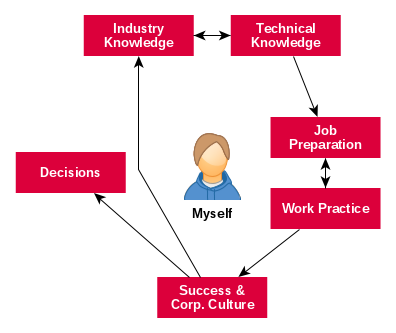
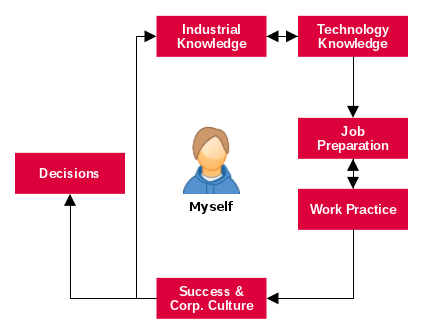
Revision of graphs, text, css and hyperlinks

diff --git a/css/style.css b/css/style.css
@@ -34,7 +34,7 @@ RESPONSIVE
 body {
   font-family: 'Assistant', sans-serif;
   font-size: 16px;
-  color: #505050;
+  color: #404040;
   font-weight: 600;
   overflow-x: hidden;
 }
@@ -69,7 +69,7 @@ p {
 }
 
 a {
-  color: #11151c;
+  color: #404040;
   -webkit-transition: 0.2s color;
   transition: 0.2s color;
 }
@@ -92,7 +92,6 @@ a:hover, a:focus {
 
 ul, ol {
   margin: 0px;
-  margin-bottom: -10px;
   padding: 0;
   list-style: none
 }
@@ -111,29 +110,34 @@ ol.list-style {
 }
 
 blockquote.blockquote {
-  padding: 30px;
-  margin: 0px 0px 20px;
-  border: 2px solid #e8eaed;
+  padding: 20px;
+  margin: 15px 75px 15px 75px;
+  border: 2px solid #dee0e3;
+  background: #edeff2;
+  font-size: 15px;
+  font-style: italic;
 }
 
 blockquote.blockquote:before {
   content: "\f10d";
   font-family: fontAwesome;
-  width: 70px;
-  height: 70px;
-  line-height: 70px;
+  font-style: normal;
+  width: 45px;
+  height: 45px;
+  line-height: 42px;
   text-align: center;
   border-radius: 50%;
   color: #2289c9;
-  font-size: 30px;
-  background: #fff;
-  border: 2px solid #e8eaed;
+  font-size: 16px;
+  background: #edeff2;
+  border: 2px solid #dee0e3;
   float: left;
   margin-right: 10px;
 }
 
 blockquote.blockquote .blockquote-footer {
-  color: #97989b;
+  font-style: normal;
+  color: #818285;
 }
 
 figure {
@@ -159,9 +163,9 @@ figure.pull-left {
 figure>figcaption {
   font-size: 14px;
   text-align: center;
-  margin-top: -7px;
+  margin-top: -5px;
   font-style: italic;
-  color: #97989b;
+  color: #606060;
 }
 
 /*----------------------------*\
@@ -287,6 +291,26 @@ textarea.input {
   background: #d341b2 !important;
 }
 
+.social-github {
+  background: #24292e !important;
+}
+/* import via <img src="img/github.png" width="53" height="53"><br><br> */
+
+.social-jupyter {
+  background: #f37626 !important;
+}
+/* import via <img src="img/jupyter.png" width="45" height="53"><br><br> */
+
+.social-rmarkdown {
+  background: #e91c2f !important;
+}
+/* import via <img src="img/rmarkdown.png" width="45" height="53"><br><br> */
+
+.social-presentation {
+  background: #4c6ef5 !important;
+}
+/* import via <img src="img/presentation.png" width="40" height="53"><br><br> */
+
 /*=========================================================
 	NAVIGATION
 ===========================================================*/
@@ -334,6 +358,7 @@ textarea.input {
 .nav-social {
   float: left;
   padding: 10px 0px;
+  font-size: 20px;
 }
 
 .nav-social li {
@@ -775,7 +800,7 @@ textarea.input {
 .post-category a {
   color: #2289c9;
   font-weight: 700;
-  font-size: 13px;
+  font-size: 16px;
   text-transform: uppercase;
 }
 
@@ -795,7 +820,7 @@ textarea.input {
 .post-meta li {
   display: inline-block;
   color: #97989b;
-  font-size: 12px;
+  font-size: 14px;
   text-transform: uppercase;
 }
 
@@ -809,7 +834,7 @@ textarea.input {
 }
 
 .post-meta li:after {
-  content: '•';
+  content: '//';
   display: inline-block;
   padding-left: 5px;
   padding-right: 5px;
@@ -1212,8 +1237,9 @@ textarea.input {
 
 .social-widget ul li a {
   display: block;
+  height: 160px;
   text-align: center;
-  padding: 30px 15px;
+  padding: 20px 15px;
   color: #fff;
   -webkit-transition: 0.2s opacity;
   transition: 0.2s opacity;
@@ -1292,7 +1318,12 @@ textarea.input {
 .category-widget ul li a {
   display: block;
   font-size: 14px;
-  font-weight: 500;
+  font-weight: 600;
+  color: #404040;
+}
+
+.category-widget ul li a:hover{
+  color: #2289c9;
 }
 
 .category-widget ul li a span {

diff --git a/index.html b/index.html
@@ -44,14 +44,14 @@
 
 		<!-- PAGE HEADER -->
 		<div id="post-header" class="page-header">
-			<div class="page-header-bg" style="background-image: url('./img/title.jpg');" data-stellar-background-ratio="0.5"></div>
+			<div class="page-header-bg" style="background-image: url('./img/title2.jpg');" data-stellar-background-ratio="0.5"></div>
 			<div class="container">
 				<div class="row">
 					<div class="col-md-10">
 						<div class="post-category">
 							<a>#datasciencecareers&emsp; #jobprogress&emsp; #careerstarter</a>
 						</div>
-						<h1>Data science career reflection based on CRISP-DM process model</h1>
+						<h1>Data science career reflection<br/>based on CRISP-DM process model</h1>
 						<ul class="post-meta">
 							<li><a href="http://dgluesen.github.io">Dennis Gluesenkamp</a></li>
 							<li>October 2019</li>
@@ -75,12 +75,12 @@
 					<div class="section-row">
 						<h3 style="margin-top:1.0cm;" id="introduction">Introduction</h3>
 						<figure class="pull-right">
-							<img src="./img/crisp-dm2.png" alt="">
+							<img src="./img/crisp-dm.png" alt="">
 							<figcaption>Fig. 1: CRISP-DM process model</figcaption>
 						</figure>
 						<p>How can I share my own professional experience with Master's students in business analytics and data science? Encourage them to self-reflect? I asked myself this question recently when I was invited to give a guest lecture at a university of applied sciences. My approach is to adapt the CRISP-DM process model [<a href="#chapman1999">1</a>] which is familiar to many students and practitioners in the field of data science. With a total of six steps (see Figure 1), the model describes how data sets can be systematically explored for patterns and relationships.</p>
 						<figure class="pull-right">
-							<img src="./img/career-model2.png" alt="">
+							<img src="./img/career-model.png" alt="">
 							<figcaption>Fig. 2: CRISP-DM inspired career reflection model</figcaption>
 						</figure>
 						<p>By adjusting the objectives of the six steps, however, a model can also be formulated to reflect one's own career and job planning. This model can then be applied not only to students but also to professionals who are rethinking their current situation or are open to a change. This results in the diagram shown in Figure 2 and which is discussed below. Such a reflection seems to be in the interest of the individual, especially due to the high fluctuation among data scientists [<a href="#brooks2018">2</a>].</p>
@@ -150,6 +150,24 @@
 						</div>
 					</div>
 					<!-- /category widget -->
+
+					<!-- social widget -->
+					<div class="aside-widget" style="margin-top:1.0cm;">
+						<div class="section-title">
+							<h2 class="title">Coding, visualizations and other</h2>
+						</div>
+						<div class="social-widget">
+							<ul>
+								<li>
+									<a href="https://github.com/dgluesen/datascience-career-crisp-dm" class="social-github">
+										<img src="img/github.png" width="53" height="53"><br><br>
+										<span>GitHub<br>Repository</span>
+									</a>
+								</li>
+							</ul>
+						</div>
+					</div>
+					<!-- /social widget -->
 
 					<!-- post widget -->
 					<!-- <div class="aside-widget">
